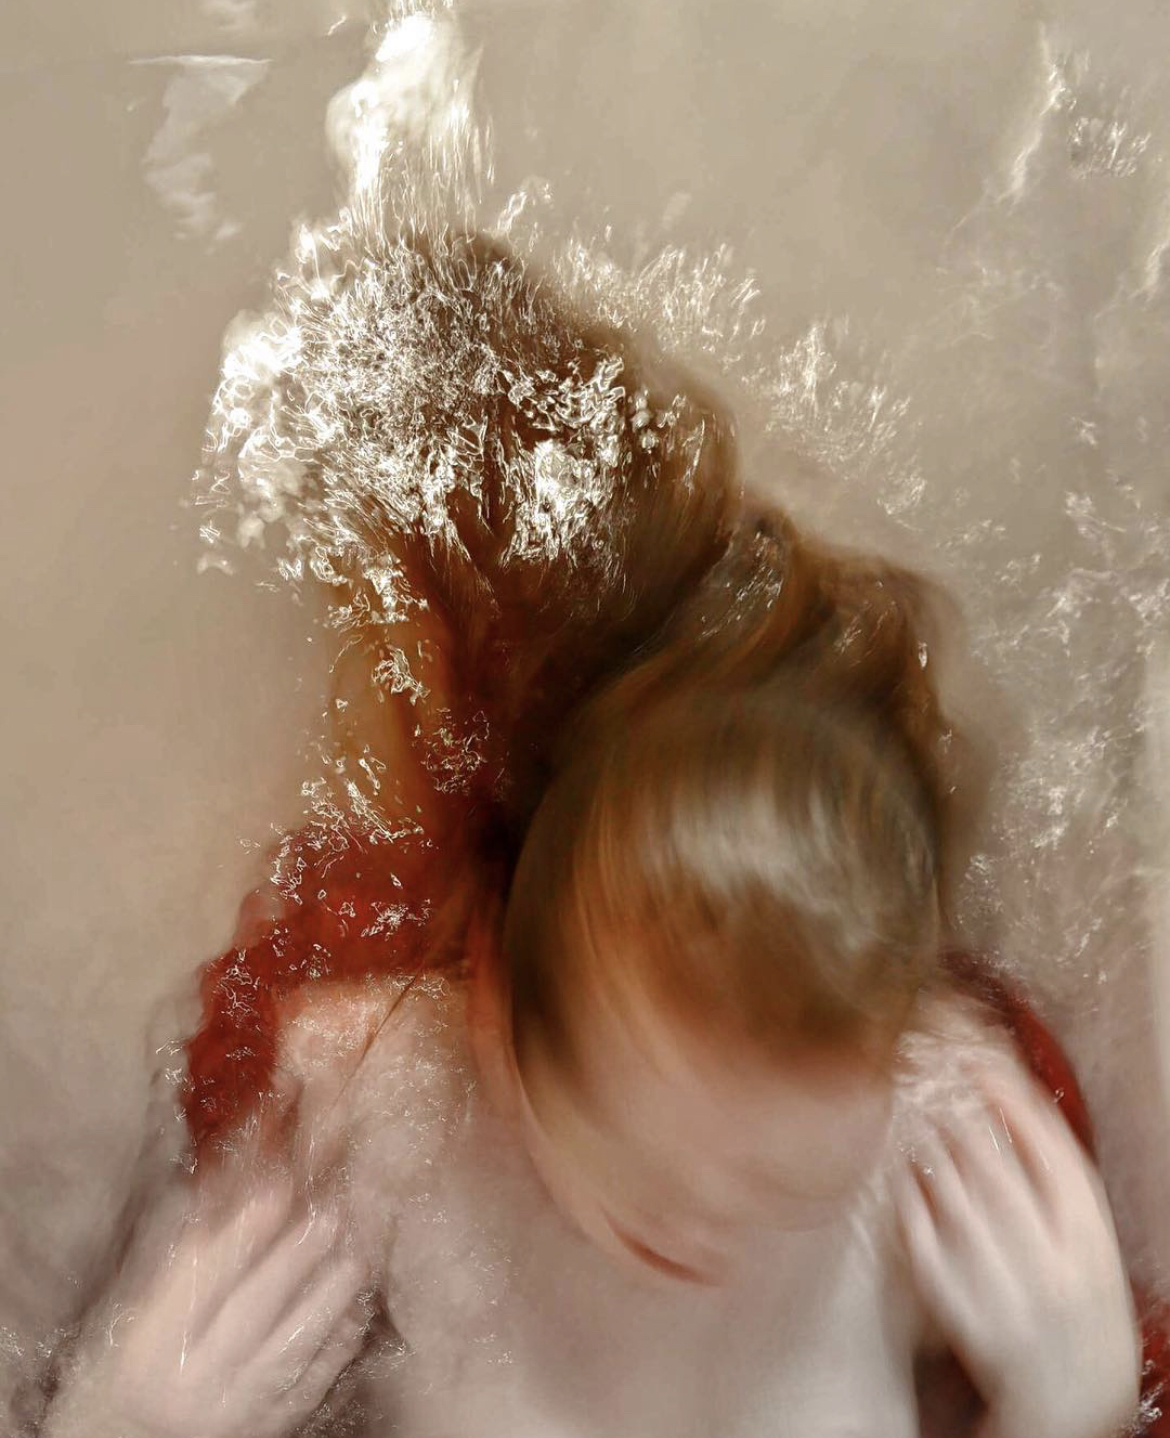
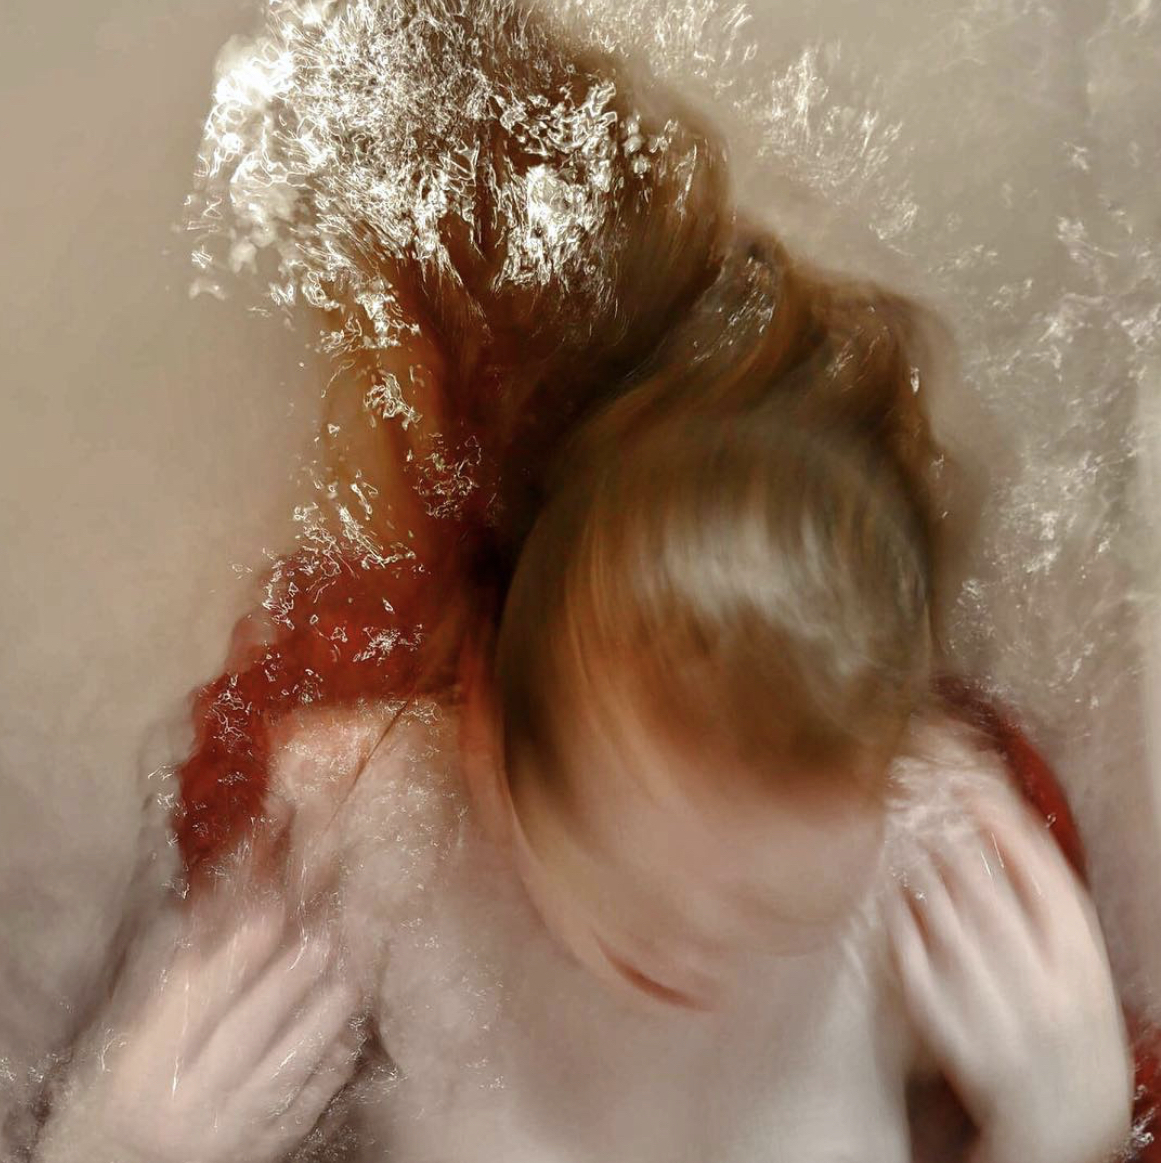
Update index.html changed hero and pictures

diff --git a/index.html b/index.html
@@ -24,7 +24,7 @@
   </head>
   <body>
     <div class="hero">
-      <nav class="navbar sticky-top ">
+      <nav class="navbar  fixed-top">
         <div class="container-fluid">         
           <div class="nav-item navbar-nav dropdown heading">
             <a
@@ -47,16 +47,34 @@
       </nav>
 
       <!-- <h1 class="m-5 text-center">ELENA HENNENBERG</h1> -->
-      <p class="m-5">
-        <span>p</span> <span>h</span> <span>o</span> <span>t</span>
-        <span>o</span> <span>g</span> <span>r</span> <span>a</span>
-        <span>p</span> <span>h</span><span>e</span> <span>r</span>
-      </p>
+ 
     </div>
     <div class="portfolio-section pt-5">
-      <!-- <h2 class="text-center m-5 p-5 pb-0 mt-0 pt-0 portfolio">
-        P O R T F O L I O
-      </h2> -->
+     <div class="container" >
+         <div class="row">
+             <!-- <div class="col-1 ">
+                <p class="mt-5 float-end">
+                    <span>p</span> <span>h</span> <span>o</span> <span>t</span>
+                    <span>o</span> <span>g</span> <span>r</span> <span>a</span>
+                    <span>p</span> <span>h</span><span>e</span> <span>r</span>
+                </p>
+             </div> -->
+             <!-- <div class="col-9 mb-5 mt-2">
+                 <img src="images/IMG_0002.jpg" class="img-fluid" width="720px" alt="">
+             </div> -->
+         </div>
+         <div class="row">
+             <div class="col-6 ">
+                 <img src="images/IMG_9991.jpg" class="img-fluid" alt="">
+             </div>
+            <div class="col-6">
+                            <img src="images/IMG_9996.jpg" class="img-fluid" alt="">
+  
+            </div>
+         </div>
+     </div>
+
+
     </div>
     <!-- JavaScript Bundle with Popper -->
     <script

diff --git a/styles.css b/styles.css
@@ -15,6 +15,9 @@ html,
 }
 
 /* navbar */
+.navbar {
+  background-color: #fff !important;
+}
 
 .hero .heading {
   margin-top: 15px !important;
@@ -26,7 +29,7 @@ html,
 }
 
 .hero .header {
-  font-size: 30px !important;
+  font-size: 20px !important;
   color: #535353 !important;
   opacity: 90%;
   font-family: "Acumin Pro" !important;
@@ -39,6 +42,7 @@ html,
   font-family: "Acumin Pro" !important;
   letter-spacing: 1px;
   border: none !important;
+  background-color: transparent !important;
 }
 .dropdown-menu .dropdown-item {
   background-color: transparent !important;
@@ -49,13 +53,13 @@ html,
 }
 
 /* hero main page */
-.hero {
-  /* background-image: url(hero2.png); */
+/* .hero {
+  background-image: url(images/IMG_9998.jpg);
   background-repeat: no-repeat;
   background-size: cover;
-
-  height: 85vh;
-}
+  background-position: center;
+  height: 50vh;
+} */
 
 p span {
   font-family: monospace;
@@ -64,6 +68,7 @@ p span {
   opacity: 20%;
   font-size: 20px;
 }
+
 .hero h2 {
   margin-top: 200px !important;
 }
